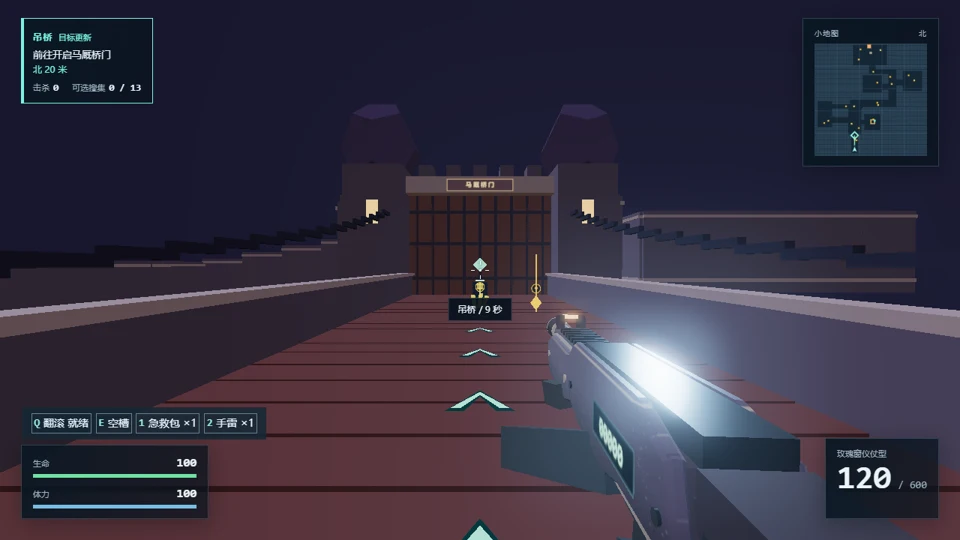
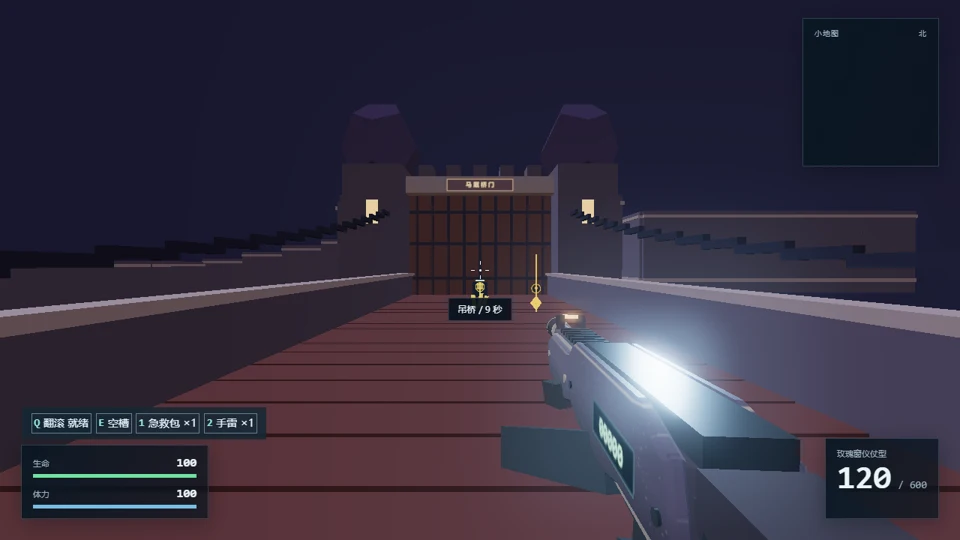
验证两关的门禁、实战与存档并补全路线和试玩画面

diff --git a/level-kit/tests/annihilation_play.js b/level-kit/tests/annihilation_play.js
@@ -31,6 +31,26 @@ function playAnnihilation({rewardName,roomName,roomAt,takeReward}) {
     const d=ray.length();
     return g.level.visible(eye,ray.divideScalar(Math.max(.001,d)),d);
   }
+  // 观察墙边和酸池，选择仍有侧移空间的方向，避免一直后退到来路死角。
+  function bossFootwork(enemy){
+    const home=g.level.bossAnchor, pools=g.projectiles.puddles;
+    let best=null,score=-Infinity;
+    for(let i=0;i<16;i++){
+      const a=i*Math.PI/8,dx=Math.cos(a),dz=Math.sin(a);
+      let clear=0;
+      for(let d=.5;d<=5;d+=.5){
+        const x=p.x+dx*d,z=p.z+dz*d,y=g.level.base(x,z);
+        if(g.level.blocked(x,z,y,p.radius,p.height))break;
+        clear=d;
+      }
+      if(clear<1.5)continue;
+      const dest={x:p.x+dx*clear,z:p.z+dz*clear};
+      const pressure=pools.some(o=>o.life>0 && distance(o.pos,dest)<3.5);
+      const value=-Math.abs(distance(dest,enemy)-13)+clear*.6-Math.max(0,distance(dest,home)-11)*2-(pressure?12:0);
+      if(value>score){score=value;best=dest;}
+    }
+    return best;
+  }
   function step() {
     const goal=story.guide(g,{}), enemies=g.beasts.pool.filter(b=>b.active);
     const visible=enemies.filter(see).sort((a,b)=>distance(p,a)-distance(p,b));
@@ -54,6 +74,7 @@ function playAnnihilation({rewardName,roomName,roomAt,takeReward}) {
       if(enemy.type===3 || gap<4.2)want.add(Math.sin(g.time*.57)>0?'KeyA':'KeyD');
       if(enemy.type===3 && enemy.fight?.winding)tap('Space');
       if(gap<24 && g.weapon.ammo+g.weapon.reserve>0)dest=null;
+      if(enemy.type===3){want.clear();dest=bossFootwork(enemy);}
     } else if(dest)aim(0,Math.atan2(p.x-dest.x,p.z-dest.z));
     if(story.stage==='boss' && g.weapon.ammo+g.weapon.reserve<170) {
       const supply=g.pickups.objects.filter(i=>i.active && i.permanent && i.kind==='ammo' &&
@@ -78,6 +99,7 @@ function playAnnihilation({rewardName,roomName,roomAt,takeReward}) {
     if(stage!==lastStage) {lastStage=stage;report.log.push([stage,Math.round(g.time),Math.round(p.hp)]);}
     const before=performance.now();g.step(.033);
     const cost=performance.now()-before;
+    if(enemy?.type===3 && enemy.fight?.started && gap>4 && gap<18 && !captured.has('boss'))return 'boss';
     const group=story.encounters.at(-1);
     if(group && !report.groups.includes(group.name)){
       report.groups.push(group.name);report.peaks[group.name]={count:group.spawned,deploymentMs:cost,visible:0,threats:0,melee:0};
@@ -90,8 +112,8 @@ function playAnnihilation({rewardName,roomName,roomAt,takeReward}) {
       });
       peak.visible=Math.max(peak.visible,onScreen.length);
       peak.threats=Math.max(peak.threats,visible.filter(b=>b.alert>0 && distance(b,p)<(b.type===2?16:5)).length);
-      peak.melee=Math.max(peak.melee,visible.filter(b=>b.type!==2 && distance(b,p)<b.radius+p.radius+1).length);
-      if(onScreen.length>=3 && gap>=2.2 && gap<11 && !captured.has('combat'))return 'combat';
+      peak.melee=Math.max(peak.melee,visible.filter(b=>b.type!==2 && b.mode==='windup').length);
+      if(onScreen.length>=2 && gap>=3 && gap<16 && !captured.has('combat'))return 'combat';
     }
     const turning=roomName==='月桂花园' ? p.y< -2.8 && stage<4 : p.x< -31 && p.z>-6 && stage===4;
     if(turning && !captured.has('transition'))return 'transition';

diff --git a/level-kit/tests/annihilation_checks.py b/level-kit/tests/annihilation_checks.py
@@ -1,0 +1,92 @@
+"""用独立离线入口核对门禁、环境周期与最大普通战区的真实呈现时间。"""
+import json
+import os
+from playwright.sync_api import sync_playwright
+from campaign_routes_browser import ROOT, scenario_page
+
+
+def verify(browser,stage):
+    with scenario_page(browser,ROOT,stage,6107) as page:
+        result=page.evaluate("""async id=>{
+          const {game:g,definition,nav,config,renderer,scene}=run;
+          const {story:s,player:p,level:l}=g,station=id==='orbital-brood-ring';
+          const locks=definition.story.walls, route=definition.story.route;
+          const move=([x,z])=>{Object.assign(p,{x,z,y:l.base(x,z)});nav.rebuild(x,z);};
+          const tick=(dt=.05)=>{g.time+=dt;g.beasts.releaseSplits(g);s.step(dt,g);};
+          g.reset();g.phase='play';
+          // 初始、缺钥匙和缺联锁时实际门体挡住玩家胶囊和弹道。
+          for(const [id,x,z,w] of locks) {
+            if(!s.doorStates[id] || !l.blocked(x,z,l.base(x,z),p.radius,p.height))
+              throw Error('门体缺少碰撞 '+id);
+            const dir=run.camera.position.clone().set(w<1?1:0,0,w<1?0:1);
+            const origin=dir.clone().multiplyScalar(-1).add(run.camera.position.clone().set(x,l.base(x,z)+1,z));
+            if(l.visible(origin,dir,2))throw Error('关闭的门漏过射线 '+id);
+          }
+          for(const station of route.filter(t=>t.terminalKind)) {
+            move(station.at);s.interact(g);
+            if(s.recoveryStage!==0 || g.beasts.boss)throw Error('能绕过任务前置');
+          }
+          const e=g.encounter, events=[];
+          if(station) {
+            for(const [t,x,z] of [[28,-40,-3],[78,-60,-13]]) {
+              move([x,z]);g.time=t;e.update(g,.2);
+              if(e.phase!=='open' || Math.hypot(x-p.x,z-p.z)<.1)throw Error('泄压缺少实际位移');
+              const entry=[p.x,p.z];
+              // 从破口一侧沿连通甲板逆着吸力走回内侧。碰撞和吸力同时作用。
+              for(let i=0;i<50;i++){l.move(p,.11,0,.46);e.update(g,.02);}
+              if(p.x-entry[0]<2.5)throw Error('泄压期间无法撤向内侧');
+              events.push([e.status.title,+(p.x-entry[0]).toFixed(2)]);
+            }
+          } else {
+            const floor=at=>l.surface(...at,l.base(...at)+.46);
+            const low=floor([-60,18]),high=floor([50,-28]);
+            if(low!==-3.6 || high<2)throw Error('上下层高程异常');
+            for(const t of [65,72,86]){
+              g.time=t;e.update(g);
+              events.push([e.phase,e.beastSpeedScale,e.beastDamageScale]);
+            }
+            if(events.map(a=>a[0]).join()!=='warning,active,calm' || events[1][1]<=1 || events[1][2]<=1)
+              throw Error('血月未按期切换');
+          }
+          g.reset();g.phase='play';
+          for(let i=0;i<240 && s.encounters.length<2;i++) {
+            if(s.target)move([s.target.x,s.target.z]);
+            if(s.stage==='use')s.interact(g);
+            else if(s.stage==='fight'){
+              const wanted=route.find(t=>t.kind==='fight').requiredRoom;
+              for(const b of g.beasts.pool)if(b.active && b.sectionRoom===wanted)g.beasts.damage(b,1e7,g);
+            }
+            tick(.2);
+          }
+          const second=route.filter(t=>t.kind==='fight')[1];
+          const team=g.beasts.pool.filter(b=>b.active && s.isCurrentGuard(b));
+          if(team.length!==second.count || g.beasts.boss)throw Error('最大战区未集结');
+          const site=station?[-42,3]:[27,-6];move(site);p.look.rotation.set(-.06,0,0,'YXZ');
+          const samples=[],frame=()=>new Promise(requestAnimationFrame);
+          const gl=renderer.getContext(),ext=gl.getExtension('WEBGL_debug_renderer_info');
+          const initial=g.beasts.live;
+          for(let i=0;i<42;i++){
+            const begin=performance.now();
+            g.step(.025);window.renderScenarioFrame(0);
+            await frame();
+            if(i>=6)samples.push(performance.now()-begin);
+          }
+          samples.sort((a,b)=>a-b);
+          g.time+=20;p.hurtDelay=0;p.hurt(10000,g);
+          if(g.phase!=='fail')throw Error('受致死伤害后未失败');
+          g.reset();
+          if(s.recoveryStage!==0 || !Object.values(s.doorStates).every(Boolean) || g.kills!==0 || g.loot.length)
+            throw Error('失败重开后门禁或掉落残留');
+          return {events,initial,spawned:team.length,p50:samples[18],p95:samples[34],frames:samples.length,
+                  viewport:[innerWidth,innerHeight],buffer:[gl.drawingBufferWidth,gl.drawingBufferHeight],
+                  gpu:ext?gl.getParameter(ext.UNMASKED_RENDERER_WEBGL):gl.getParameter(gl.RENDERER)};
+        }""",stage)
+        print(browser.version,stage,json.dumps(result,ensure_ascii=False),flush=True)
+
+
+if __name__=='__main__':
+    with sync_playwright() as pw:
+        browser=pw.chromium.launch(channel=os.getenv('GAME_TEST_BROWSER','chrome'),headless=True)
+        try:
+            for stage in ('orbital-brood-ring','moonlit-stained-glass-keep'):verify(browser,stage)
+        finally:browser.close()

diff --git a/level-kit/tests/annihilation_browser.py b/level-kit/tests/annihilation_browser.py
@@ -1,6 +1,7 @@
 """从带历史成绩的首页进入独立歼灭关。键鼠事件和指针锁仅作用于无头测试页面。"""
 import argparse
 import json
+import os
 import re
 import subprocess
 import sys
@@ -30,7 +31,7 @@ def play(browser,url,stage,out,collect):
       }
       localStorage.setItem('super-player:preferences:v1',JSON.stringify({muted:true,difficulty:'standard'}));
     """)
-    page.route(re.compile('/'+stage+r'/(?:index\.html)?(?:\?.*)?$'),expose_game)
+    page.route(re.compile('/'+stage+r'/(?:index\.html)?(?:\?.*)?$'),lambda route:expose_game(route,manual_steps=True))
     page.goto(url+'/')
     page.get_by_role('button',name='直接开始',exact=True).click()
     page.locator('#continue').wait_for()
@@ -54,12 +55,27 @@ def play(browser,url,stage,out,collect):
     page.add_script_tag(content=(ROOT/'level-kit/tests/annihilation_play.js').read_text(encoding='utf8'))
     page.evaluate("opts=>window.walk=playAnnihilation(opts)",{'rewardName':reward,'roomName':room,'roomAt':at,'takeReward':collect})
     def capture(name):
-        page.evaluate("""() => {
+        page.evaluate("""name => {
           const g=run.game;
+          if(name==='entry')g.step(.016);
+          if(name==='combat' || name==='boss'){
+            // 两次点射之间取景，让枪口焰退去，保留 HUD、前排怪和后方驻防。
+            document.dispatchEvent(new MouseEvent('mouseup',{button:0,bubbles:true}));
+            for(let i=0;i<5 && g.phase==='play';i++)g.step(.025);
+            document.dispatchEvent(new MouseEvent('mousedown',{button:0,bubbles:true}));
+          }
           while(g.phase==='play' && g.time<g.attackPauseUntil)g.step(.008);
+          if(name==='entry' || name==='transition'){
+            g.story.marker(null,g);
+            document.querySelector('#task-panel').style.visibility='hidden';
+            document.querySelector('#map').style.visibility='hidden';
+          }
           window.drawPlayFrame(1000);
-        }""")
+        }""",name)
         page.screenshot(path=out/(stage+'-'+name+'.png'))
+        page.evaluate("""() => {
+          for(const id of ['task-panel','map'])document.getElementById(id).style.removeProperty('visibility');
+        }""")
     capture('entry')
     while True:
         result=page.evaluate('walk.advance()')
@@ -92,7 +108,7 @@ if __name__=='__main__':
         try:
             url=re.search(r'http://127\.0\.0\.1:\d+',server.stdout.readline()).group()
             with sync_playwright() as pw:
-                browser=pw.chromium.launch(channel='chrome',headless=True)
+                browser=pw.chromium.launch(channel=os.getenv('GAME_TEST_BROWSER','chrome'),headless=True)
                 try: play(browser,url,args.stage,args.output,args.collect)
                 finally: browser.close()
         finally:

diff --git a/level-kit/tests/campaign_browser.py b/level-kit/tests/campaign_browser.py
@@ -21,11 +21,17 @@ LEVELS = json.loads((ROOT / "campaign/levels.json").read_text(encoding="utf-8"))
 NEW_STAGES = ["sakura-night-town", "brass-factory", "haunted-midway"]
 
 
-def expose_game(route, *, render=True):
+def expose_game(route, *, render=True, manual_steps=False):
     # startLevel 已返回运行状态，只在测试浏览器中保留引用以布置边界局面。
     response = route.fetch()
     entry = "    startLevel(definition, campaign, campaignStage);"
     html = response.text()
+    if manual_steps:
+        # 此类用例从键鼠驱动器按固定步长调用 game.step；截图只画当前画面。
+        advance = "pendingTime += dt;\n      advanceSimulation();"
+        html = html.replace("\r\n","\n")
+        assert html.count(advance)==1
+        html = html.replace(advance,"pendingTime = 0;")
     if not render:
         # 合成帧在一次 JS 调用中推进，只测时钟。真实战役用例保留每一帧的 WebGL 绘制。
         draw = "composer.render(dt);"
@@ -80,6 +86,7 @@ def finish_at_gate(page):
         const treasure=g.pickups.objects.find(i=>i.active && i.kind==='rare');
         const treasureName=treasure.name;
         at(treasure);g.pickups.update(.05,g.player,g);
+        if(treasure.manual && !g.pickups.takeNearbyReward(g.player,g))throw Error('手动拾取战利品失败');
         const tick=()=>{g.time+=.5;g.beasts.releaseSplits(g);g.objective.step(.5,g);s.step(.5,g);};
         for(let n=0;n<2400 && g.phase==='play' && s.stage!=='complete';n++) {
             const state=s.stage,t=s.target;

diff --git a/level-kit/tests/stage_audio_browser.py b/level-kit/tests/stage_audio_browser.py
@@ -40,7 +40,9 @@ def verify(page,address,stage):
         e.setAlarm(true);e.alarmUntil=begin+4;tick(begin+1);tick(begin+4.2);
       } else if(['bloodmoon-castle','shanhai-secret-realm','ember-fortress'].includes(id)) {
         tick(116);tick(121);tick(175);
-      } else if(id==='buried-tomb') {tick(88);tick(91);tick(109);}
+      } else if(id==='moonlit-stained-glass-keep') {tick(65);tick(71);tick(85);}
+      else if(id==='orbital-brood-ring') {tick(22);tick(27);tick(38);}
+      else if(id==='buried-tomb') {tick(88);tick(91);tick(109);}
       else if(id==='polar-station') {
         e.temperature=60;tick(begin+1);e.temperature=92;tick(begin+2);
       } else if(id==='drowned-city'||id==='derelict-station') {

diff --git a/level-kit/tests/campaign_routes_browser.py b/level-kit/tests/campaign_routes_browser.py
@@ -53,7 +53,8 @@ if __name__ == "__main__":
     args = parser.parse_args()
     stages = args.stages or [
         item["id"] for item in json.loads((args.root / "campaign/levels.json").read_text(encoding="utf-8"))
-        if item["id"] != "underground-lab"
+        # 开门部署的三关由 lab_live_browser 和 annihilation_browser 从首页走完整局。
+        if item["id"] not in ("underground-lab","moonlit-stained-glass-keep","orbital-brood-ring")
     ]
     with sync_playwright() as pw, pw.chromium.launch(channel=os.getenv("GAME_TEST_BROWSER", "chrome")) as browser:
         for stage in stages:

diff --git a/PROGRESS.md b/PROGRESS.md
@@ -3,21 +3,23 @@
 > 先读 `AGENTS.md`，其中记录各关卡规格、运行方式和协作规则。
 > 最后更新于 2026-11-24。
 
-## 2026-11-24 环轨母巢开发记录（#104）
+## 2026-11-24 环轨母巢与月下彩窗堡（#104、#107）
 
-后续实玩从正式首页选择新关，使用标准难度、未改装步枪和页面内合成键鼠。首页历史成绩预置在临时 SQLite 中，进入本关后以正常碰撞、射击及拾取完成任务。空手路线用时约 183 秒，结算余弹 46＋163。取得休眠舱日志的一局约 184 秒，余弹 43＋293。两局都写入一次通关并解锁彩窗堡。初测持续射击母体耗时过长，随后仅下调本关首领生命倍率，保留弱点与两次转阶段。
+两关以独立 ID 追加在巴黎之后。原存档的已通关条目按原 ID 回读。两关都从正式首页以标准难度、未改装步枪、页面内模拟指针锁和键鼠事件通关。固定弹箱沿主路补给。清掉任务房的最后一名守卫后，仍需走进房间操作；击败首领立即写入一局胜利。每关分别验证空手通关和领取可选战利品，复查胜利只结算一次及原有通关记录。
 
-## 2026-11-24 月下彩窗堡开发记录（#107）
+| 新关 | 空手路线 | 可选房路线 | 普通遭遇、实战压力 |
+| --- | --- | --- | --- |
+| 环轨母巢 | 144 秒，860 发，余弹 112＋498 | 155 秒取得休眠舱日志 | 转运廊 24 只、西环 29 只。两段画面内可见峰值为 8、7，近身或有射界的攻击距离内最多 1、4 只，近战同时前摇峰值均为 1 |
+| 月下彩窗堡 | 136 秒，809 发，余弹 2＋269 | 166 秒取得月桂银胸针 | 马厩和墓穴 20 只、教堂与钟楼 28 只。可见峰值为 6、5，攻击距离内各 1 只，近战同时前摇峰值为 0、1 |
 
-第十七关由[吊桥和墓道](moonlit-stained-glass-keep/route.svg)通往东柱廊和钟楼，墓穴下沉 3.6 米，北端回到侧门，钟楼高出桥面 2.8 米。两段部署 20 和 28 名守卫。清除管理室的 9 名和绞盘房的 11 名后能操作任务物。花园的 7 名守卫单独控制银胸针。原血月古堡仍按原路线完成两场各 100 只的遭遇。
+房间计数按出生归属。环轨主线两间任务房的配额为 10 和 12，休眠舱为 8。古堡两间任务房为 9 和 11，花园为 7。主线用时为游戏模拟时钟，战区及舒适度数据来自上述样本。首轮测试发现母体与伯爵在持续射击下分别打到约 127 秒、154 秒，后期射击重复。随后仅调整两关的首领生命倍率，保留 70% 和 35% 转阶段与破甲窗口。古堡取宝和空手局均经历血月。
 
-正式首页进入、暂停恢复、键鼠走位射击、首领死亡胜利、SQLite 结算和原有记录回读均经过无头 Chrome。空手路线约 146 秒，发射 883 发，余弹 66＋311。花园取宝路线约 171 秒，发射 980 发，结算带回月桂银胸针。首版试射需约 1500 发打完整关，已调整伯爵的生命倍率。城门在第一人称视角曾与停靠舱门轮廓雷同，已加入桥头垛口、横梁、木门铁带与实体牌。两关尚在同一开发分支，场景性能与交付复审待完成。
+首次取景时，两关桥门轮廓相近，停靠舱缺少目的地线索。环轨增加货臂、装卸界线和门框导向灯；古堡增加桥头垛口、木门铁带和墓穴烛龛。入口与转场在隐藏地面指引和任务栏时取景。环轨两处泄压点都验证了吸力，逆吸力侧移可向内侧撤出约 3.9 米。古堡验证墓穴低于吊桥 3.6 米、钟楼高出 2.8 米，血月预警、强化与恢复均不改变门禁。
 
-### 环轨母巢初版记录
+- 环轨母巢：[俯视与高程](orbital-brood-ring/route.svg)、[停靠舱](campaign/images/orbital-brood-ring.webp)、[外环](orbital-brood-ring/views/transition.webp)、[交战](orbital-brood-ring/views/combat.webp)。
+- 月下彩窗堡：[俯视与高程](moonlit-stained-glass-keep/route.svg)、[吊桥](campaign/images/moonlit-stained-glass-keep.webp)、[墓穴](moonlit-stained-glass-keep/views/transition.webp)、[交战](moonlit-stained-glass-keep/views/combat.webp)。
 
-《环轨母巢》以独立入口追加为第十六关。[俯视图和甲板高程](orbital-brood-ring/route.svg) 标出停靠舱、指挥舱凭证、维修联锁、休眠舱环线和母体大厅。两段遭遇首轮配置为 24 与 29 只，推进分别要求清除指挥舱的 10 只和维修舱的 12 只。休眠舱的 8 只驻防单独解锁日志。后续需要按正式首页的默认步枪试玩结果复核配给与压力。
-
-无头 Chrome 读取离线入口并执行任务状态机。九段任务依次完成，检查的目标无碰撞阻塞，两个战区分别在开门时部署 24 和 29 只。地下实验室原有三段各 100 只的回归通过。第一次在玩家视角检查停靠舱时，门和横梁之间缺少可辨认的目的地。随后在门框装上转运廊实体牌、双侧定位灯，并增加货臂下方的缓冲箱与装卸界线。新入口重新打包并复查画面。已通过 71 项 Node 单测，尚需正式首页的完整作战、存档、失压通行与帧时间验收。
+本机 Windows 无头 Chrome 158.0.8127.36、Intel UHD 630，视口 960×540，实际绘制 816×459，中画质。第二战区部署后保留前一区未清的敌人，预热 6 帧，采样 36 个刷新周期。环轨 43 只在场，P50/P95 为 16.7/17.0 毫秒；古堡 39 只在场，为 16.7/17.1 毫秒。首次开门含部署的模拟步在实玩中耗时更长，环轨约 163–191 毫秒，古堡约 180–196 毫秒。单机短样本只反映该设备和机位。离线验收另查门体挡弹、未到场首领不生成、失败重开及周期。旧主题关卡、全部场地交互、逐关音效、SQLite 和静态站点 IndexedDB 已回归。测试入口为 `annihilation_browser.py` 和 `annihilation_checks.py`。
 
 ## 2026-11-24 锁定鼠标的合并采样（#89）
 

diff --git a/AGENTS.md b/AGENTS.md
@@ -27,7 +27,7 @@
 - 正式主线遭遇默认在触发时部署全部 100 只。按玩家当时位置、门态、敌种体型、实体占位与通路规划出生位置，普通无尽敌群清空后开始下一整波。各关按清场、任务交互、计时或撤离条件推进。步枪基础弹匣 120 发、开局备弹 600 发。实验室依次通过安检折廊、弯折运输廊和检修运输廊，每段包含两间连通驻敌房。段首隔离门由玩家开启，反应堆门前和室内有固定补给。绿线标出当前通路，青色脉冲柱可破首领装甲，标有「可选搜集」的侧房影响收益。
 - 步枪与霰弹枪的第一人称与肩后模型均已移除红点瞄具，保留普通准星。当前暂停右键红点瞄准，战役与练习共用 `level-kit/src/preferences.mjs` 的 `RED_DOT_AIM_ENABLED` 开关。原有单击和按住偏好保存在本机。教程、关卡菜单和装备提示使用当前键位。关卡音效快捷键在战役与练习中使用同一偏好。手雷显示飞行模型、落点和延时爆炸，暂停冻结引信。
 
-- 战役已登记至第十五关《巴黎铁塔：高塔救援》。战前页按所选模式显示行动和装备，正式战役有单局变奏，独立教程和试验场使用练习配给。首页武器库支持步枪、霰弹枪及按枪保存的分支改装。战报、可选回放、统计与图鉴按战役存档隔离。
+- 战役按原顺序保留前十五关，第十六关《环轨母巢》和第十七关《月下彩窗堡》为独立歼灭行动。任务房清场后手动操作凭证或机关，首领死亡结算。两关的驻敌按各自空间和实战压力配置，见 `PROGRESS.md`。战前页按所选模式显示行动和装备，正式战役有单局变奏，独立教程和试验场使用练习配给。首页武器库支持步枪、霰弹枪及按枪保存的分支改装。战报、可选回放、统计与图鉴按战役存档隔离。
 - 经典行动优先读取场景的 `story` 和当前阶段目标。实验室先在西安保室取卡，再到东配电房送电，经检修梯下到反应堆歼灭首领。钟楼默认坚守后爆破突围，沉穹古都默认护送无人机，巴黎默认在观景台计满 90 秒后登机。下文早期关卡规格中的连续增援、统一击杀门槛和半血转换由本节所列的现行模式与首领规则覆盖。首领阶段阈值为 70% 和 35%，清场、支线、召唤和卵孵化各按自己的触发条件部署完整敌群。
 - 机关的动画、玩家碰撞、射线和凶兽寻路共用同一个门体状态。各关选配宝库、秘室和环境危险物，王陵和游园支持深入撤离，秘境和樱町支持限时猎杀。战役模式、数据入口、规则和实测见 `LEVEL_BIBLE.md` 及 `PROGRESS.md`。
 

diff --git a/README.md b/README.md
@@ -74,6 +74,8 @@ python3 server.py
 | 13 | 黄铜机坊 | 管道爆裂蒸汽、传送带、锅炉车间诱敌 |
 | 14 | 永夜游园 | 失控旋转木马和过山车、气球爆炸、镜屋窄道 |
 | 15 | 巴黎铁塔：高塔救援 | 登上观景台，启动救援信标，坚守 90 秒后登机 |
+| 16 | 环轨母巢 | 从停靠舱绕过失压外环，在维修舱恢复联锁，深入反应堆歼灭母体 |
+| 17 | 月下彩窗堡 | 下墓穴取钥匙，在钟楼升起栅门，穿过教堂迎战伯爵 |
 
 成功撤离后，可以在武器库中旋转查看并佩戴该关的步枪。外观与战斗特性一同装备，可带去其他关卡。与血月、蒸汽等场景事件联动的能力在对应环境中触发。
 
@@ -112,6 +114,10 @@ python3 server.py
     <td align="center"><a href="campaign/images/brass-factory.webp"><img src="campaign/images/brass-factory.webp" width="280" alt="黄铜机坊"></a><br>黄铜机坊</td>
     <td align="center"><a href="campaign/images/haunted-midway.webp"><img src="campaign/images/haunted-midway.webp" width="280" alt="永夜游园"></a><br>永夜游园</td>
     <td align="center"><a href="campaign/images/paris-tower.webp"><img src="campaign/images/paris-tower.webp" width="280" alt="巴黎铁塔的观景台和登塔阶梯"></a><br>巴黎铁塔：高塔救援</td>
+  </tr>
+  <tr>
+    <td align="center"><a href="campaign/images/orbital-brood-ring.webp"><img src="campaign/images/orbital-brood-ring.webp" width="280" alt="停靠舱里的货臂和转运门"></a><br>环轨母巢</td>
+    <td align="center"><a href="campaign/images/moonlit-stained-glass-keep.webp"><img src="campaign/images/moonlit-stained-glass-keep.webp" width="280" alt="月下吊桥通往马厩桥门"></a><br>月下彩窗堡</td>
   </tr>
 </table>
 

diff --git a/LEVEL_BIBLE.md b/LEVEL_BIBLE.md
@@ -45,6 +45,8 @@
 
 ## 本地实现约定
 
+- 第十六、十七关按各自路线调校正式歼灭战。环轨母巢两段分别部署 24、29 只，月下彩窗堡两段分别部署 20、28 只。清除任务房的驻防、手动操作任务物即可推进。击败最终首领直接结算已领取的战利品。门的位置、驻防与高程见[环轨母巢](orbital-brood-ring/route.svg)和[月下彩窗堡](moonlit-stained-glass-keep/route.svg)。
+
 - 实验室每段以门洞、驻点、隔板和可通行路径错开威胁。开门后守卫巡视并监听枪声，听声调查最后的开火位置，看到玩家或自身受到攻击时交由移动 AI 接战。清房归属在追击期间保留。首关普通、装甲、喷吐的基础追击实速分别为 2.30、1.50、1.75 米/秒。装甲冲锋预警 0.9 秒，速度 4.8 米/秒，无遮挡时可冲 5.04 米。
 
 - 开放路线按首次能够看到或接触敌人的时点设计。在出生画面、冲刺、侧门及折返路径上都应能看到同一批预先驻防的敌人。按出生房间登记清场，守卫追出房间仍保留归属。最后的本房守卫及其待生成子体被消灭后开放房内战利品，玩家可按交互键领取或空手继续。
